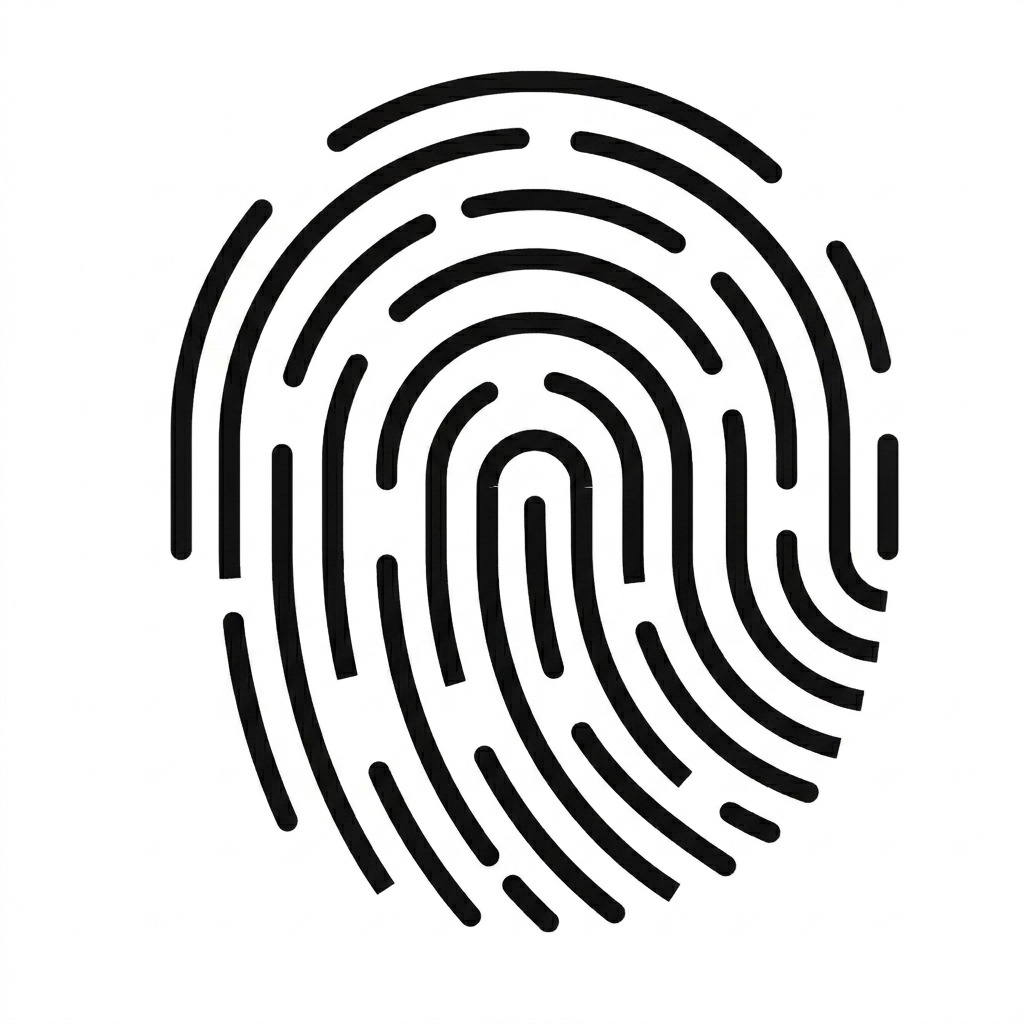
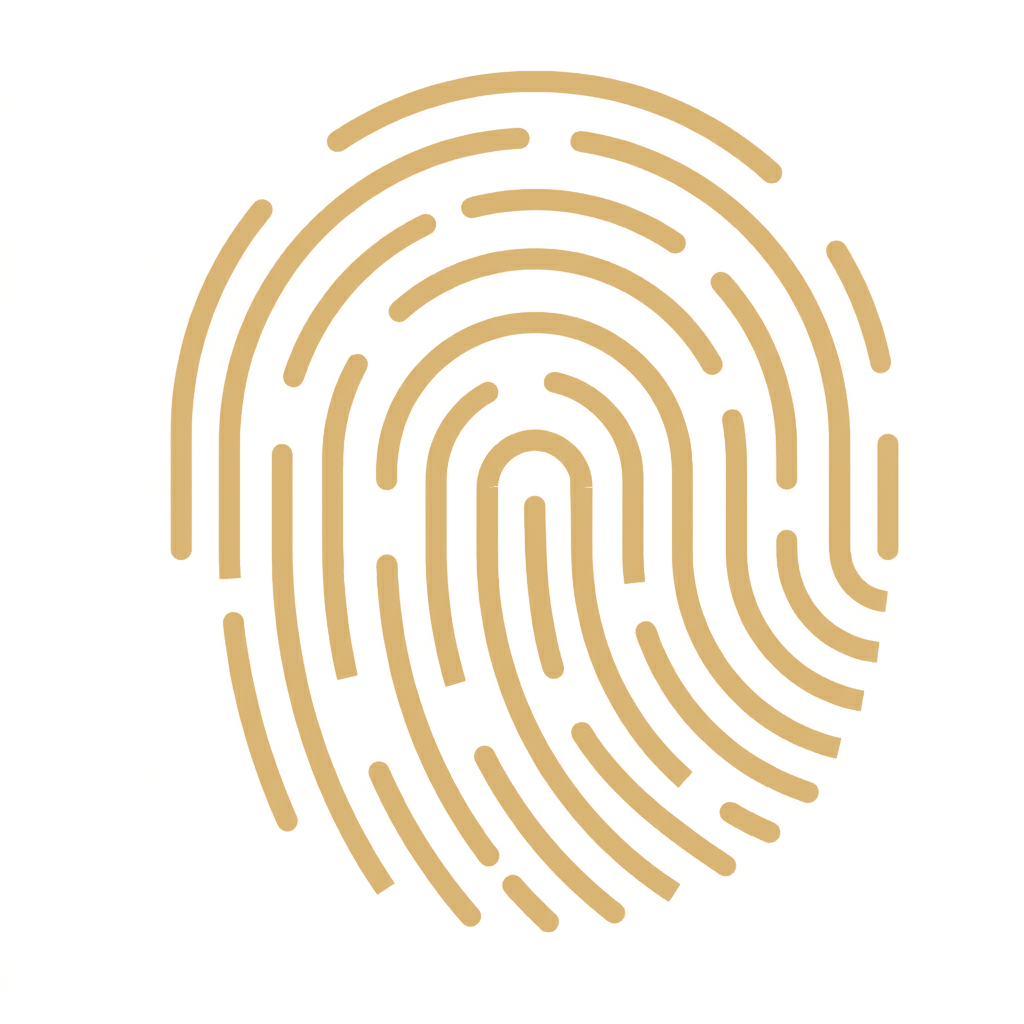
Convert fingerprint to gold transparent PNG, remove blend mode hacks

Changed region(s): [[0.1562, 0.0625, 0.875, 0.9062]]

diff --git a/recording-layout.html b/recording-layout.html
@@ -334,7 +334,7 @@
 
     .ritualFinalPhrase{ font-size:13px; line-height:1.35; letter-spacing:.10em; text-transform:uppercase; color:rgba(215,176,107,.75); text-shadow:0 1px 3px rgba(0,0,0,.7); font-family:ui-sans-serif, system-ui, sans-serif; }
 
-    .ritualFingerprint{ flex-shrink:0; opacity:.55; width:48px; height:48px; filter:invert(1) sepia(1) saturate(1.4) hue-rotate(5deg); mix-blend-mode:screen; }
+    .ritualFingerprint{ flex-shrink:0; opacity:.60; width:48px; height:48px; }
 
     .ritualBottomOrnaments{ width:100%; display:flex; justify-content:space-between; align-items:flex-end; gap:10px; }
     .ritualBottomSet{ width:35%; display:flex; flex-direction:column; gap:4px; }

diff --git a/sala.html b/sala.html
@@ -4194,11 +4194,9 @@
 
     .ritualFingerprint{
       flex-shrink:0;
-      opacity:.55;
+      opacity:.60;
       width:48px;
       height:48px;
-      filter:invert(1) sepia(1) saturate(1.4) hue-rotate(5deg);
-      mix-blend-mode:screen;
     }
 
     .ritualBottomOrnaments{
